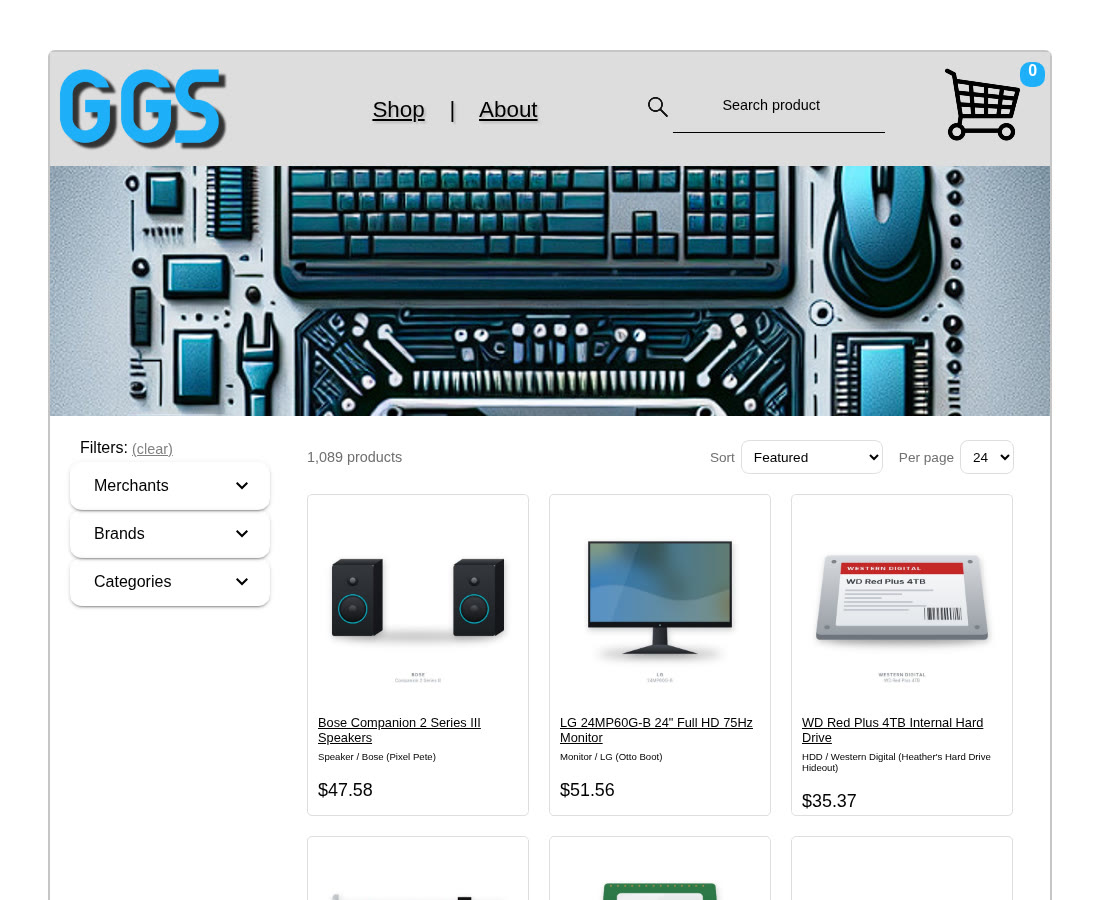
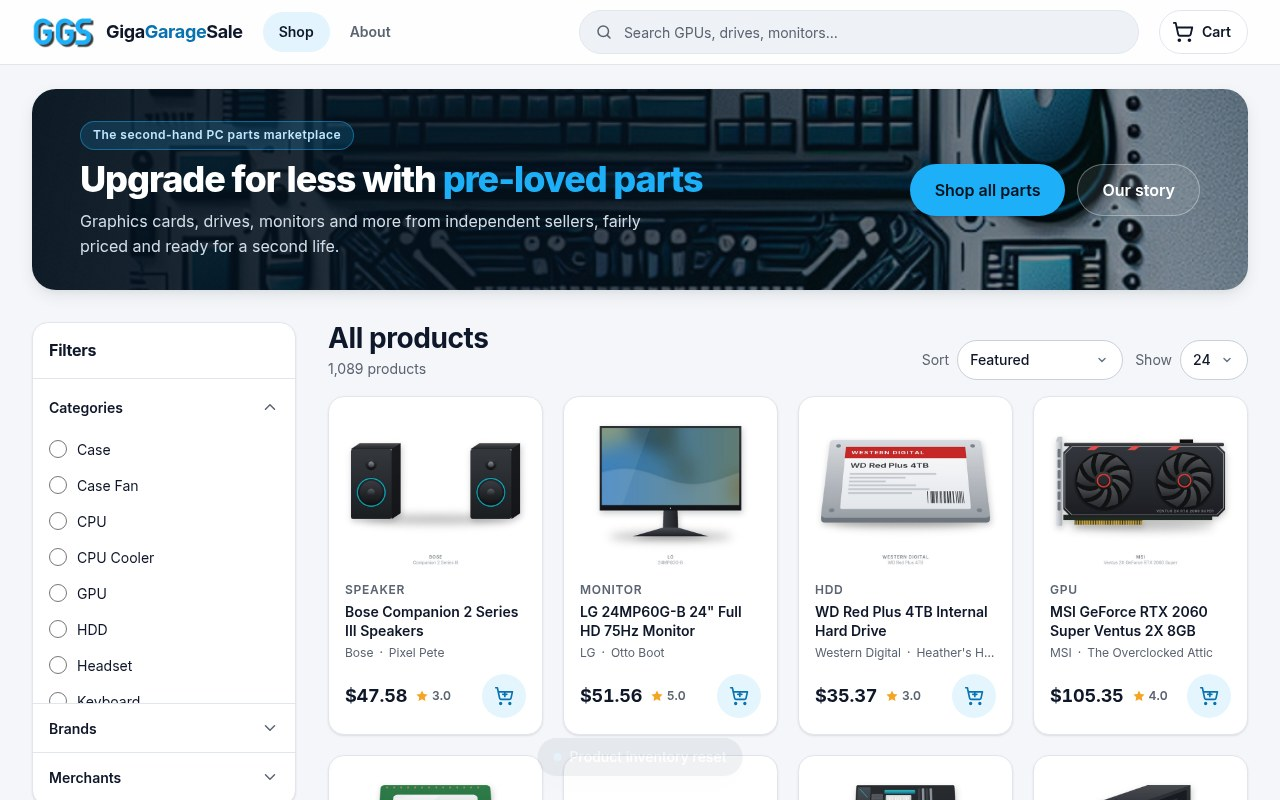
Refresh README and feature the live site URL (#15)
Put the live site (https://gigagaragesale.socha3.com/) right under the title
with a badge, describe the current app (1,089-product catalog, server-side
search/filter/sort/pagination, responsive UI with dark mode), document the
API endpoints and tests, and summarize the automatic deploy with a link to
docs/DEPLOY.md. Replace docs/shop.jpg with a fresh 1280x800 capture of the
redesigned shop page.

diff --git a/readme.md b/readme.md
@@ -1,12 +1,41 @@
-## GigaGarageSale - Final Project
+# GigaGarageSale
 
-#### SEIS622 Web Development - Spring 2025
+**Live site: [gigagaragesale.socha3.com](https://gigagaragesale.socha3.com/)**
 
-![GigaGarageSale shop page](docs/shop.jpg)
+[![Live site](https://img.shields.io/badge/live%20site-gigagaragesale.socha3.com-1db0f9)](https://gigagaragesale.socha3.com/)
+[![Deploy](https://github.com/bigmac529/GigaGarageSale/actions/workflows/deploy.yml/badge.svg)](https://github.com/bigmac529/GigaGarageSale/actions/workflows/deploy.yml)
+
+A marketplace for gently used computer parts: browse, search and filter a catalog of second-hand
+PC components from independent sellers, then check out from the cart. Originally built as the final
+project for **SEIS622 Web Development (Spring 2025)**.
+
+[![GigaGarageSale shop page](docs/shop.jpg)](https://gigagaragesale.socha3.com/)
+
+## Features
+
+- **Catalog of 1,089 used PC parts** (ids 12-1100) across 18 categories and 30 sellers, each with a
+  generated product image.
+- **Server-side search, filtering, sorting and pagination.** The shop state (query, filters, sort,
+  page) lives in the URL, so results can be bookmarked and shared.
+- **Modern responsive UI** with automatic dark mode (follows the system setting): sticky header with
+  search suggestions, filter sidebar on desktop and drawer/bottom sheet on smaller screens,
+  product detail pages, and a cart with stock tracking and a demo checkout.
+- **Demo reset**: "Reset demo inventory" in the footer restores every product's stock and empties
+  the cart.
+
+## Tech stack
+
+| Folder | What's in it |
+| --- | --- |
+| `ui/` | Angular 19 single-page app (standalone components, SCSS, Angular Material/CDK) |
+| `api/` | Express 5 + TypeScript API run with ts-node; catalog in `api/src/products.json`, images in `api/public/images/` |
+| `shared/` | TypeScript interfaces used by both (`IProduct`, product page/facets) |
+| `scripts/` | PowerShell deploy scripts for the Windows server |
+| `.github/workflows/` | `deploy.yml`: build, test and deploy on every merge to `main` |
 
 ## Local development
 
-Requires Node 20+ (Angular 19). One-time install (or run `install.cmd` on Windows):
+Requires Node 20+. One-time install (or run `install.cmd` on Windows):
 
 ```bash
 cd api && npm install
@@ -20,48 +49,59 @@ Run the API and the UI in two terminals (or run `start.cmd` on Windows, which op
 cd api
 npm start
 
-# terminal 2: UI on http://localhost:4200 (opens it in your browser)
+# terminal 2: UI on http://localhost:4200
 cd ui
 npm start
 ```
 
-`npm start` in `ui` runs `ng serve --open`, which opens http://localhost:4200/ in your default
-browser once the build is ready (`start.cmd` does the same). Use `npx ng serve` if you don't want a
-browser window.
+`npm start` in `ui` runs `ng serve --open`, which opens http://localhost:4200/ in your browser once
+the build is ready. Use `npx ng serve` if you don't want a browser window.
 
-The UI calls the API with relative URLs (`/api/...`, `/images/...`). In production IIS serves both
-from the same site; locally `ng serve` forwards `/api` and `/images` to `http://localhost:3106`
-via `ui/proxy.conf.json`, so the browser never makes a cross-origin request and no CORS setup is
-needed. The API binds every address `localhost` resolves to (IPv6 `::1` and IPv4 `127.0.0.1`), so the
-proxy reaches it whichever one Node picks. If you run the API on another port (`PORT=...`), change
+The UI calls the API with relative URLs (`/api/...`, `/images/...`). In production both are served
+from the same site; locally `ng serve` forwards `/api` and `/images` to `http://localhost:3106` via
+`ui/proxy.conf.json`, so no CORS setup is needed. The API listens on every address `localhost`
+resolves to (IPv6 `::1` and IPv4 `127.0.0.1`). If you run it on another port (`PORT=...`), change
 the `target` in `ui/proxy.conf.json` to match.
 
-If you still see requests to `http://localhost:3000` or a CORS error, you are on an old checkout:
-`git pull` on `main`, then restart both terminals.
+To try a different catalog without touching `api/src/products.json`:
+`PRODUCTS_FILE=/path/to/other-products.json npm start` (in `api`).
 
-## Products API
+## Tests
 
-`GET /api/products` accepts `page` and `pageSize` (default 24, max 100) plus the filters `q`
-(search), `merchant`, `brand`, `category` and `sort` (`featured`, `price-asc`, `price-desc`,
-`rating-desc`, `title-asc`). With `page` or `pageSize` it returns
-`{ items, total, page, pageSize, totalPages }`, paginating after filtering and sorting; without
-them it returns the plain array as before. `GET /api/products/facets` lists the filter values.
-
-To try the shop with a bigger catalog locally, point the API at another JSON file without
-touching `api/src/products.json`: `PRODUCTS_FILE=/path/to/big-products.json npm start`.
-
-## socha3 hosting
-
-| Piece | Value |
-| --- | --- |
-| Public URL | https://gigagaragesale.socha3.com/ |
-| Content | `C:\WebApps\GigaGarageSale` |
-| Node listen | `localhost:3106` (`PORT` / `HOST` env; binds every loopback address `localhost` resolves to, IPv6 and IPv4) |
-| WinSW | `GigaGarageSaleNode` (runs `api` via ts-node) |
-| IIS | Site/pool `GigaGarageSale`, ARR to Node |
-
-Deploy: copy repo to `C:\WebApps\GigaGarageSale` (preserve `web.config`, `data\`, `logs\`), then:
-
-```powershell
-powershell -NoProfile -ExecutionPolicy Bypass -File .\scripts\post-deploy.ps1 -AppRoot C:\WebApps\GigaGarageSale
+```bash
+cd api && npm test   # Node test runner: product query/filter/pagination logic
+cd ui && npm test    # Angular unit tests (Karma + Jasmine, needs Chrome)
 ```
+
+## API
+
+| Endpoint | Description |
+| --- | --- |
+| `GET /api/products` | Products, optionally filtered with `q` (search), `merchant`, `brand`, `category` and sorted with `sort` (`featured`, `price-asc`, `price-desc`, `rating-desc`, `title-asc`) |
+| `GET /api/products?page=&pageSize=` | With `page` or `pageSize` (default 24, max 100) returns `{ items, total, page, pageSize, totalPages }`, paginated after filtering and sorting; without them, the plain array |
+| `GET /api/products/facets` | Distinct merchants, brands and categories for the filter panel |
+| `GET /api/products/:id` | A single product (404 if not found) |
+| `POST /api/products/reset` | Reloads the catalog from disk, restoring stock (204) |
+| `GET /api/health` | Health check used by CI and the deploy |
+
+Product images are served from `/images/<id>.jpg`. In production the API also serves the built UI.
+
+## Deployment
+
+Every merge to `main` deploys automatically. The GitHub Actions workflow
+[`.github/workflows/deploy.yml`](.github/workflows/deploy.yml) builds the UI, runs the tests,
+smoke-tests the API on a GitHub-hosted runner, then hands the package to a self-hosted runner on the
+Windows server, which updates the app and rolls back automatically if the health check fails. The
+site runs on IIS (reverse proxy to the Node API on `localhost:3106`) behind Cloudflare at
+https://gigagaragesale.socha3.com/. `main` is protected, so changes land through pull requests.
+
+Server setup, the deploy steps, rollback and troubleshooting are in [docs/DEPLOY.md](docs/DEPLOY.md).
+`scripts/post-deploy.ps1` remains for a fully manual deploy.
+
+## Links
+
+- Live site: https://gigagaragesale.socha3.com/
+- Source: https://github.com/bigmac529/GigaGarageSale
+- Michael Socha's portfolio: https://socha3.com
+
+The site's About page tells the GigaGarageSale story and its founders, Michael Socha and Danny Xiong.
